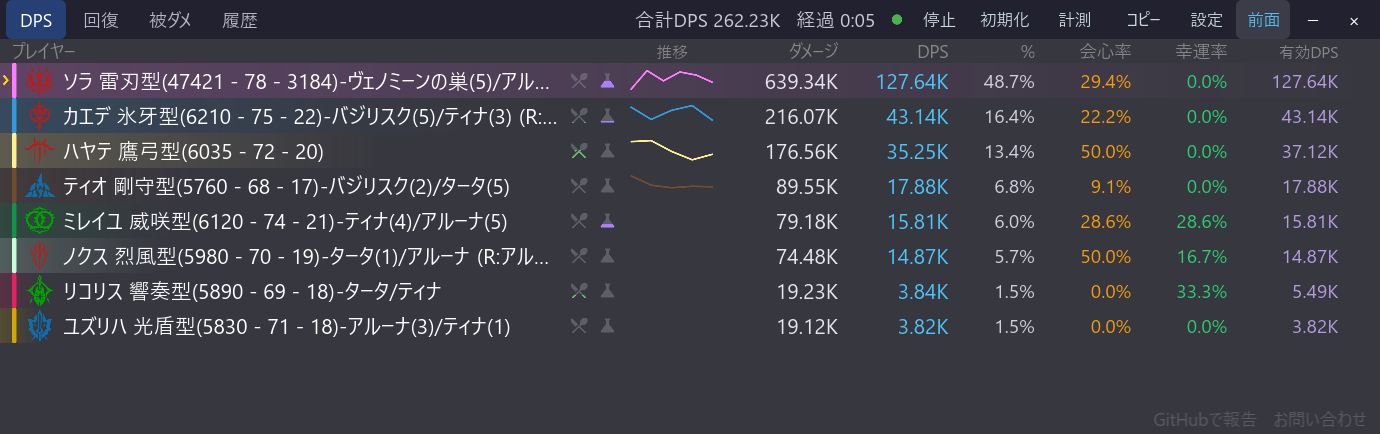
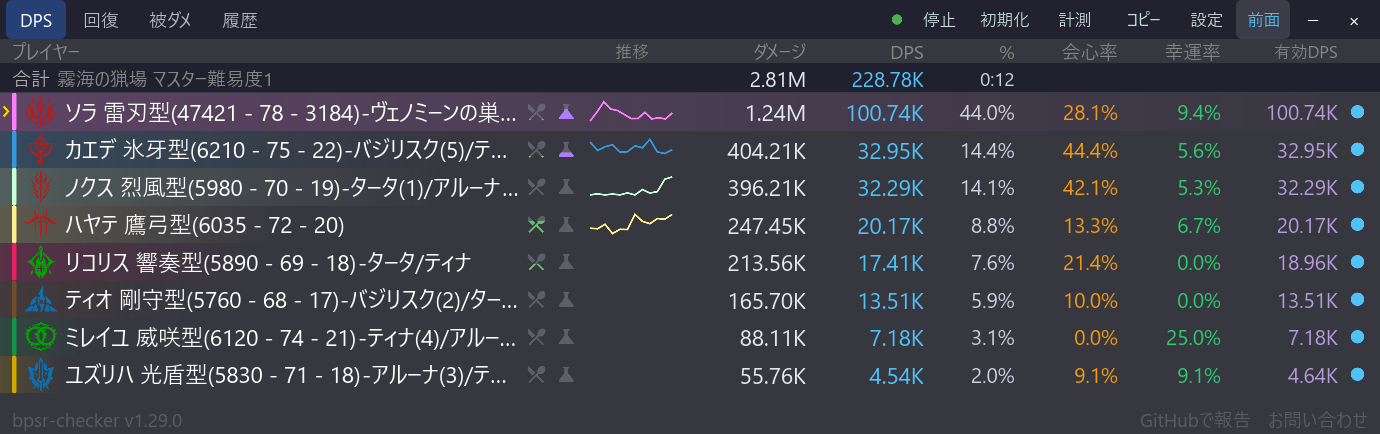
docs: 合計行とコンテンツ名の機能ページを追加し、履歴の説明とスクリーンショットを更新

diff --git a/docs/features/total-row-content-name.md b/docs/features/total-row-content-name.md
@@ -1,0 +1,57 @@
+# 合計行とコンテンツ名
+
+[機能一覧に戻る](../../README.md#主な機能)
+
+DPS・回復・被ダメージの一覧に、パーティ全体の合計を1行で示す合計行を表示できます。合計DPS・総ダメージ・経過時間を、プレイヤー行をスクロールしても隠れない位置に固定して確認できます。
+
+合計行には、計測中のコンテンツ名（例：霧海の猟場 マスター難易度1）も並びます。どの場所での計測かを、画面を見るだけで判別できます。
+
+## 合計行の見方
+
+通常の一覧では、列見出しの直下に「合計」の行が入ります。左にコンテンツ名、ダメージ・DPS・%の各列の位置に総ダメージ・合計DPS・経過時間が並びます。会心率などのオプション列は、表示していても合計行では空欄です。
+
+回復タブでは総回復・合計HPS、被ダメタブでは総被ダメ・合計被DPS に切り替わります。
+
+2列コンパクト表示では、2列の上に全幅の1行が入り、「コンテンツ名　総ダメ　合計DPS　経過」の順に並びます。列見出しが無い行なので、数値には短いラベルが付きます。
+
+幅が狭いときは、コンテンツ名が先に省略されます。
+
+## コンテンツ名の決まり方
+
+- コンテンツ名は、戦闘の集計が始まった時点のマップで決まります。戦闘の途中でマップが変わっても、その戦闘の表示は変わりません。
+- 起動してから最初の戦闘が始まるまでと、初期化してから次の戦闘が始まるまでは、コンテンツ名が空になります。
+- 名前が分からないマップは、`#` に続けてマップの番号（例：`#1234`）で表示します。
+- 表示言語が English のときは、英語の名前で表示します。切り替えは再起動後に反映されます。
+
+コンテンツ名は履歴の見出しにも使われます。詳しくは [DPS・回復・被ダメ・履歴タブ](metrics-tabs.md) を参照してください。
+
+## 合計行が出ないとき
+
+合計行は、DPS・回復・被ダメの一覧と2列コンパクト表示でだけ出ます。スキル内訳・履歴・設定を開いている間は出ません。設定で合計行を OFF にした場合も出ません。
+
+これらの場合は、ヘッダーの右側に合計DPSと経過時間を表示します。狭いウィンドウでは「合計DPS」などのラベルを省いて数値だけにし、それでも収まらない幅では非表示になります。
+
+## 使い方
+
+1. 設定パネルの表示欄にある「合計行を表示」で、ON/OFF を切り替えます。既定は ON です。
+2. 合計行のコンテンツ名が長く切れる場合は、ウィンドウを広げます。
+
+## スクリーンショット
+
+<p align="center">
+  <img src="../images/feature-total-row.png" alt="DPS一覧の列見出し直下に合計行を表示したメイン画面" width="820">
+</p>
+
+列見出しの直下に、コンテンツ名と総ダメージ・合計DPS・経過時間が並びます。
+
+<p align="center">
+  <img src="../images/feature-compact-layout.png" alt="2列コンパクト表示の上部にコンテンツ名と合計値を並べたサマリー行" width="820">
+</p>
+
+2列コンパクト表示では、2列の上にコンテンツ名・総ダメ・合計DPS・経過が1行で並びます。
+
+## 関連
+
+- [DPS・回復・被ダメ・履歴タブ](metrics-tabs.md)
+- [2列コンパクト表示](compact-layout.md)
+- [計測モード](measurement-mode.md)

diff --git a/docs/features/metrics-tabs.md b/docs/features/metrics-tabs.md
@@ -4,7 +4,21 @@
 
 戦闘中の集計を、DPS（与ダメージ）・回復・被ダメージのタブで切り替えて確認できます。各タブで列見出しと合計値も切り替わるため、同じ一覧のまま役割ごとの状況を比較できます。
 
+DPS・回復・被ダメの一覧には、合計DPS・総ダメージ・経過時間とコンテンツ名を示す合計行が入ります（[合計行とコンテンツ名](total-row-content-name.md)）。
+
 戦闘が終わるとエンカウントが履歴へ自動保存されます。履歴タブではエンカウントを開いてプレイヤーやスキルの内訳を確認でき、保存された履歴はアプリを再起動しても残ります。
+
+## 履歴の見方
+
+各エンカウントの見出しは「日時　コンテンツ名」の形式です（例：2026-09-30 13:51 霧海の猟場 マスター難易度1）。続けて参加したプレイヤーの名前、計測時間・DPS・総ダメージ・人数が並びます。コンテンツ名は戦闘を始めた時点のマップから決まります。コンテンツ名が記録されていない古い履歴は、日時だけの見出しになります。人数は、日本語表示では「8人」、English 表示では数字だけで表示します。
+
+見出しを展開すると、プレイヤーごとの行が順位付きで並びます。この行は DPS 一覧と同じ見た目です。
+
+- 名前は、メインの名前テンプレートから職業アイコンなどのアイコンを除いた表記です。アイコンは表示しません。
+- 職業色のバーと、ダメージ・DPS・割合を表示します。
+- 会心率や有効DPSなどのオプション列は、メインの列設定に合わせて表示・非表示が変わります。有効DPS の記録が無い古い履歴では、有効DPS 列は「-」になります。
+
+プレイヤー行をクリックすると、そのプレイヤーのスキル別の内訳を開けます。
 
 ## 使い方
 
@@ -18,15 +32,22 @@
   <img src="../images/feature-main-overview.png" alt="DPSタブの通常メイン画面" width="820">
 </p>
 
-メイン画面のタブ切替と、プレイヤーごとの集計を確認できます。回復・被ダメージ・履歴も同じ画面構成で表示されます。
+メイン画面のタブ切替と、プレイヤーごとの集計を確認できます。列見出しの下の合計行に、コンテンツ名と合計値が出ます。回復・被ダメージも同じ画面構成で表示されます。
 
 <p align="center">
   <img src="../images/feature-history.png" alt="履歴タブを開いたメイン画面" width="820">
 </p>
 
-実際に保存された計測結果が、時間・DPS・総ダメージ・人数とともに履歴へ並びます。
+実際に保存された計測結果が、日時とコンテンツ名の見出しで、時間・DPS・総ダメージ・人数とともに履歴へ並びます。
+
+<p align="center">
+  <img src="../images/feature-history-expanded.png" alt="履歴のエンカウントを展開したメイン画面" width="820">
+</p>
+
+見出しを展開すると、DPS 一覧と同じ見た目でプレイヤーごとの行が並びます。
 
 ## 関連
 
+- [合計行とコンテンツ名](total-row-content-name.md)
 - [スキル別内訳](skill-breakdown.md)
 - [計測モード](measurement-mode.md)

diff --git a/docs/features/compact-layout.md b/docs/features/compact-layout.md
@@ -4,7 +4,9 @@
 
 DPS テーブルを左右2列に分割し、同じ人数をより小さい横幅で表示するレイアウトモードです。狭いオーバーレイや、ゲーム画面の端に置く運用に向いています。
 
-通常表示との切り替えは設定から行います。コンパクト表示では、各行を名前・ダメージ・DPS に絞った固定構成で左右へ振り分けます。
+通常表示との切り替えは設定から行います。コンパクト表示では、各行を名前・ダメージ・DPS に絞った固定構成で左右へ振り分けます。2列の上には、コンテンツ名・総ダメ・合計DPS・経過を並べた1行のサマリーが入ります（[合計行とコンテンツ名](total-row-content-name.md)）。
+
+名前の欄には、名前が数値に重ならないよう、少なくとも2文字分の幅を確保します。文字サイズを大きくするとこの幅も大きくなるため、ウィンドウの最小幅が広がります。
 
 ## 使い方
 
@@ -18,7 +20,7 @@ DPS テーブルを左右2列に分割し、同じ人数をより小さい横幅
   <img src="../images/feature-compact-layout.png" alt="軽量分割表示をONにした2列のDPS一覧" width="820">
 </p>
 
-名前・ダメージ・DPS に絞った一覧を左右2列で表示します。行間も詰まりすぎず、各プレイヤーを判別できます。
+名前・ダメージ・DPS に絞った一覧を左右2列で表示します。上部のサマリー行に、コンテンツ名と合計値が並びます。
 
 <p align="center">
   <img src="../images/feature-compact-layout-settings.png" alt="軽量分割表示を有効にした設定パネル" width="820">

diff --git a/docs/images/SHOTLIST.md b/docs/images/SHOTLIST.md
@@ -8,6 +8,8 @@ README と機能ドキュメントで使う実機 UI の撮影台帳です。す
 | `feature-skill-breakdown.png` | 通常一覧から開いたプレイヤーのスキル別ダメージ・DPS・構成比 |
 | `result-measurement.png` | 計測結果。順位、推移グラフ、スキル一覧、円グラフ、コピー操作、v1.25.0 |
 | `feature-history.png` | 実際に完了した計測結果が1件入った履歴タブ |
+| `feature-history-expanded.png` | 履歴のエンカウントを展開した状態。日時とコンテンツ名の見出し、順位付きプレイヤー行 |
+| `feature-total-row.png` | 通常一覧の合計行（コンテンツ名・総ダメージ・合計DPS・経過） |
 | `feature-effective-dps.png` | 有効 DPS 列を表示した通常一覧 |
 | `feature-effective-dps-settings.png` | 有効 DPS 列を ON にした設定 |
 | `feature-food-syrup.png` | 食事/シロップの残時間アイコンを表示した通常一覧 |
@@ -41,6 +43,7 @@ $env:BPSR_DEMO_3MIN = "30" # 結果画面を撮る場合だけ指定
 pwsh scripts/run-mcp.ps1
 ```
 
+- 画像サイズは、起動時に `SLINT_SCALE_FACTOR=1.5`、設定 `fontSize` 15（コンパクトは 12）、`window_layout.json` の main を 1380x434（コンパクトは 780x353）にして揃える。
 - 通常機能は `compactSplitMode: false` の通常表示で撮影する。
 - コンパクト表示は `compact-layout.md` 用の2枚だけ撮影する。
 - 設定、履歴、各オーバーレイは、対象機能を実際に ON にしてから撮影する。

diff --git a/README.en.md b/README.en.md
@@ -25,6 +25,7 @@ Feature details and screenshots are organized into separate pages.
 - [DPS, healing, damage taken, and history tabs](docs/features/metrics-tabs.md)
 - [Per-skill breakdown](docs/features/skill-breakdown.md)
 - [Measurement mode](docs/features/measurement-mode.md)
+- [Total row and content name](docs/features/total-row-content-name.md)
 - [Effective DPS column](docs/features/effective-dps.md)
 - [DPS trend graphs](docs/features/dps-trend.md)
 
@@ -148,7 +149,7 @@ For details, see [`core/src/capture/windivert.rs`](./core/src/capture/windivert.
 Open it with the **Settings** button in the header (slider icon in narrow layouts). Main items:
 
 - Fixing your character UID / selecting from candidates
-- Opacity, font size, column visibility (including ON/OFF for food/syrup display)
+- Opacity, font size, column visibility (including ON/OFF for food/syrup display), total row ON/OFF
 - Copy templates (placeholders such as `{name} {dmg} {dps}`)
 - Time setting for the 3-minute measurement mode, plus optional narrowing during a measurement (own records only / first enemy attacked only)
 - Imagine debuff timer display toggle / sync with the main DPS list (order-following ON/OFF, clear-all watch) / individual selection of which Imagine types to show / dense layout / debuff-timer-only mode (stops DPS aggregation for lighter operation) / 2-column compact layout ON/OFF

diff --git a/README.md b/README.md
@@ -25,6 +25,7 @@
 - [DPS・回復・被ダメ・履歴タブ](docs/features/metrics-tabs.md)
 - [スキル別内訳](docs/features/skill-breakdown.md)
 - [計測モード](docs/features/measurement-mode.md)
+- [合計行とコンテンツ名](docs/features/total-row-content-name.md)
 - [有効DPS列](docs/features/effective-dps.md)
 - [DPS推移グラフ](docs/features/dps-trend.md)
 
@@ -146,7 +147,7 @@
 ヘッダーの **設定** ボタン（狭い表示ではスライダーアイコン）から開きます。主な項目:
 
 - 自キャラ UID の固定 / 候補からの選択
-- 透明度・フォントサイズ・列の表示切替（食事 / シロップ表示の ON/OFF を含む）
+- 透明度・フォントサイズ・列の表示切替（食事 / シロップ表示の ON/OFF を含む）・合計行の表示切替
 - コピーテンプレート (`{name} {dmg} {dps}` 等のプレースホルダ)
 - 3 分計測モードの時間設定 / 計測中だけ自分の記録に絞る / 計測中だけ最初に攻撃した敵に絞る
 - イマジンデバフタイマーの表示切替 / メイン DPS との同期（並び順追従の ON/OFF・ウォッチ一括クリア）/ 表示イマジン種類の個別選択 / 行を詰める密表示 / デバフタイマー専用モード (DPS 集計を停止して軽量化) / 2 列コンパクト表示の ON/OFF

diff --git a/docs/features/multilanguage.md b/docs/features/multilanguage.md
@@ -20,7 +20,7 @@
   <img src="../images/feature-language-english.png" alt="英語表示へ切り替えた通常のメイン画面" width="820">
 </p>
 
-再起動後は、メイン画面のタブ、列、操作名が英語表示になります。
+再起動後は、メイン画面のタブ、列、操作名、合計行のコンテンツ名が英語表示になります。
 
 <p align="center">
   <img src="../images/feature-language-english-settings.png" alt="英語表示へ切り替えた設定パネル" width="820">
